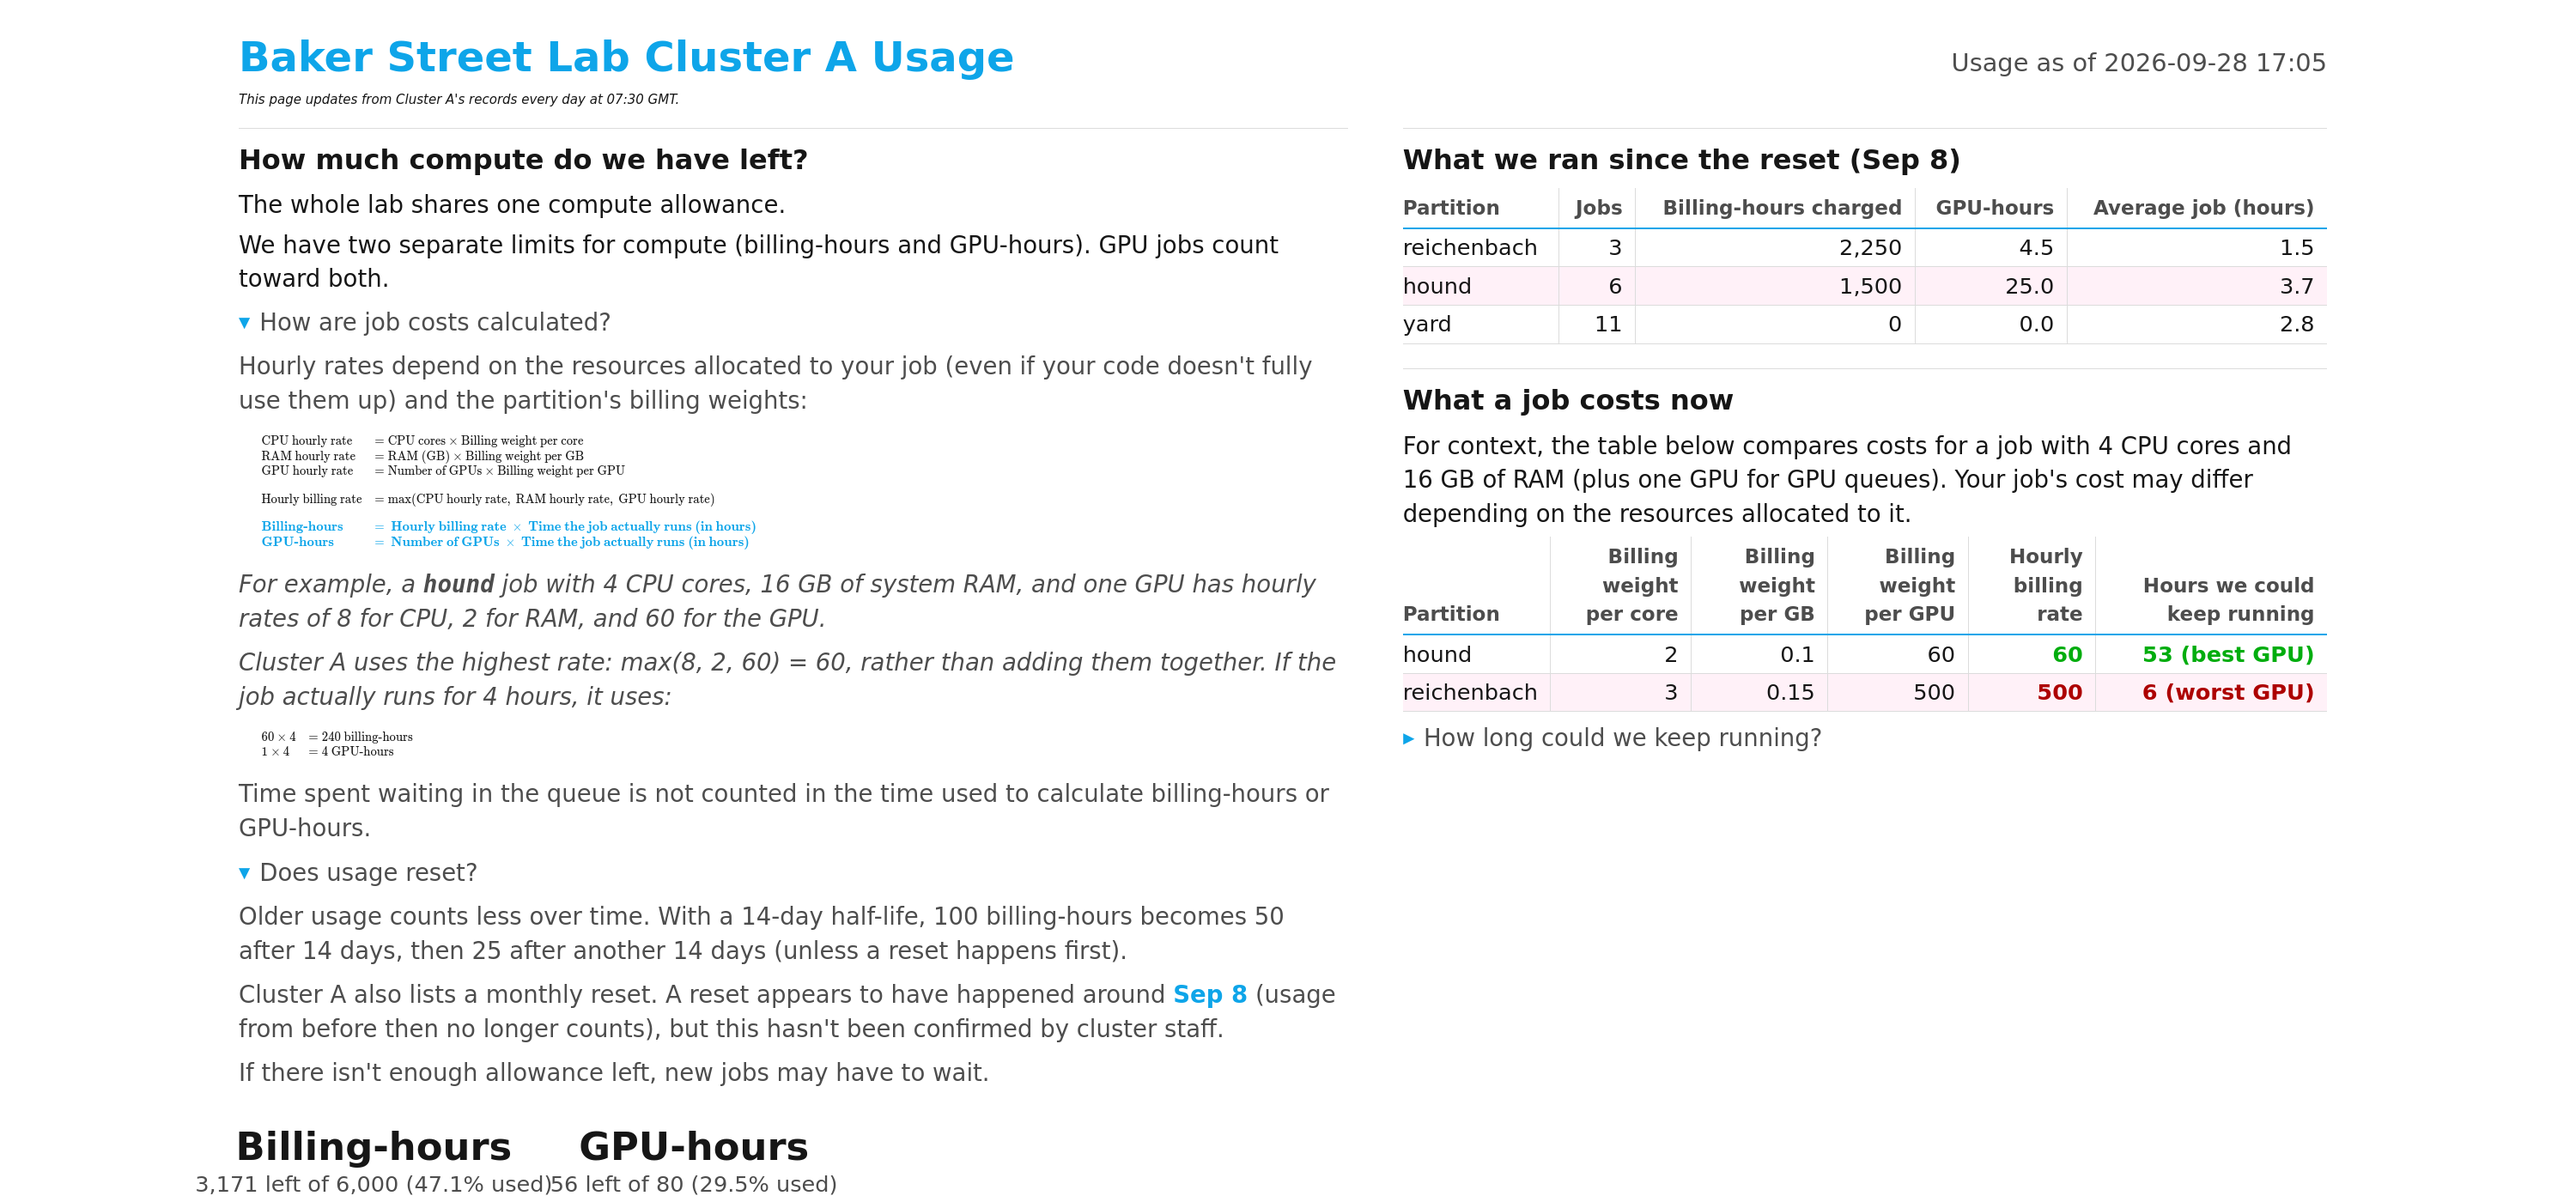
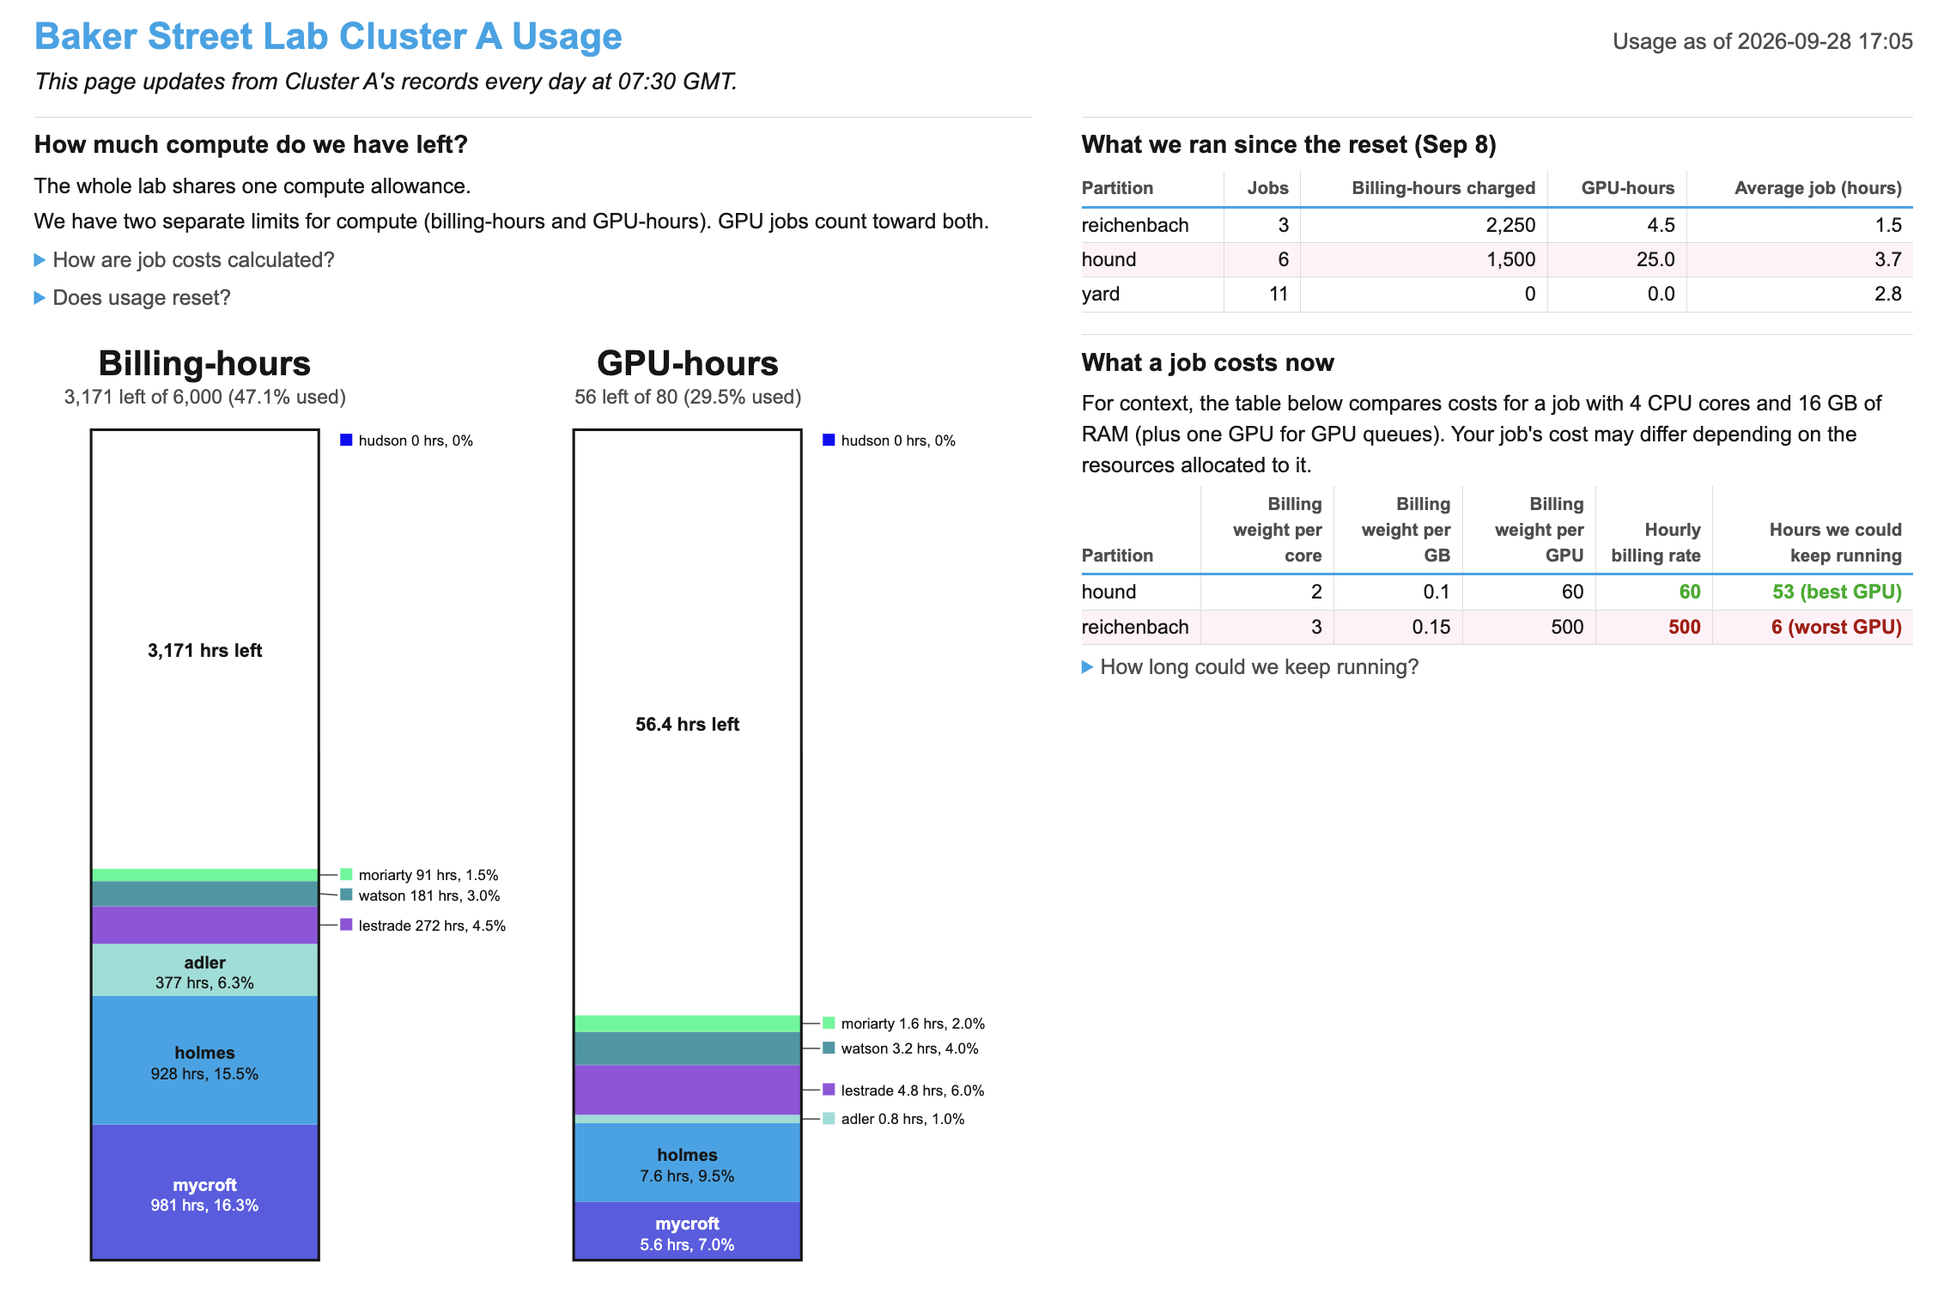
Swap in user-supplied screenshots: bars alone, and the full closed-dropdown dashboard
Kept the 'Dropdown explanations' wording from the parallel GitHub edit; fixed the image caption
back to match what the new screenshot actually shows (closed dropdowns, no equations visible),
since that edit had reverted it to describe the old expanded-equations image.

Claude-Session: https://claude.ai/code/session_01WXNW7Y2tywBdYubss8B46E

diff --git a/README.md b/README.md
@@ -26,7 +26,7 @@ usage) you can run yourself with no Slurm access at all: see [Try it without Slu
 - _Dropdown_ explanations of how billing-hours and GPU-hours are calculated and whether usage resets,
   with the equations typeset when Node.js is available, plain text otherwise.
 
-![The equations, reset explanation, recent-activity table, and job cost table, from the demo](docs/screenshots/demo-details.png)
+![The full dashboard: bars, recent-activity table, and job cost table, from the demo](docs/screenshots/demo-details.png)
 
 ## What info does this need to work?
 
